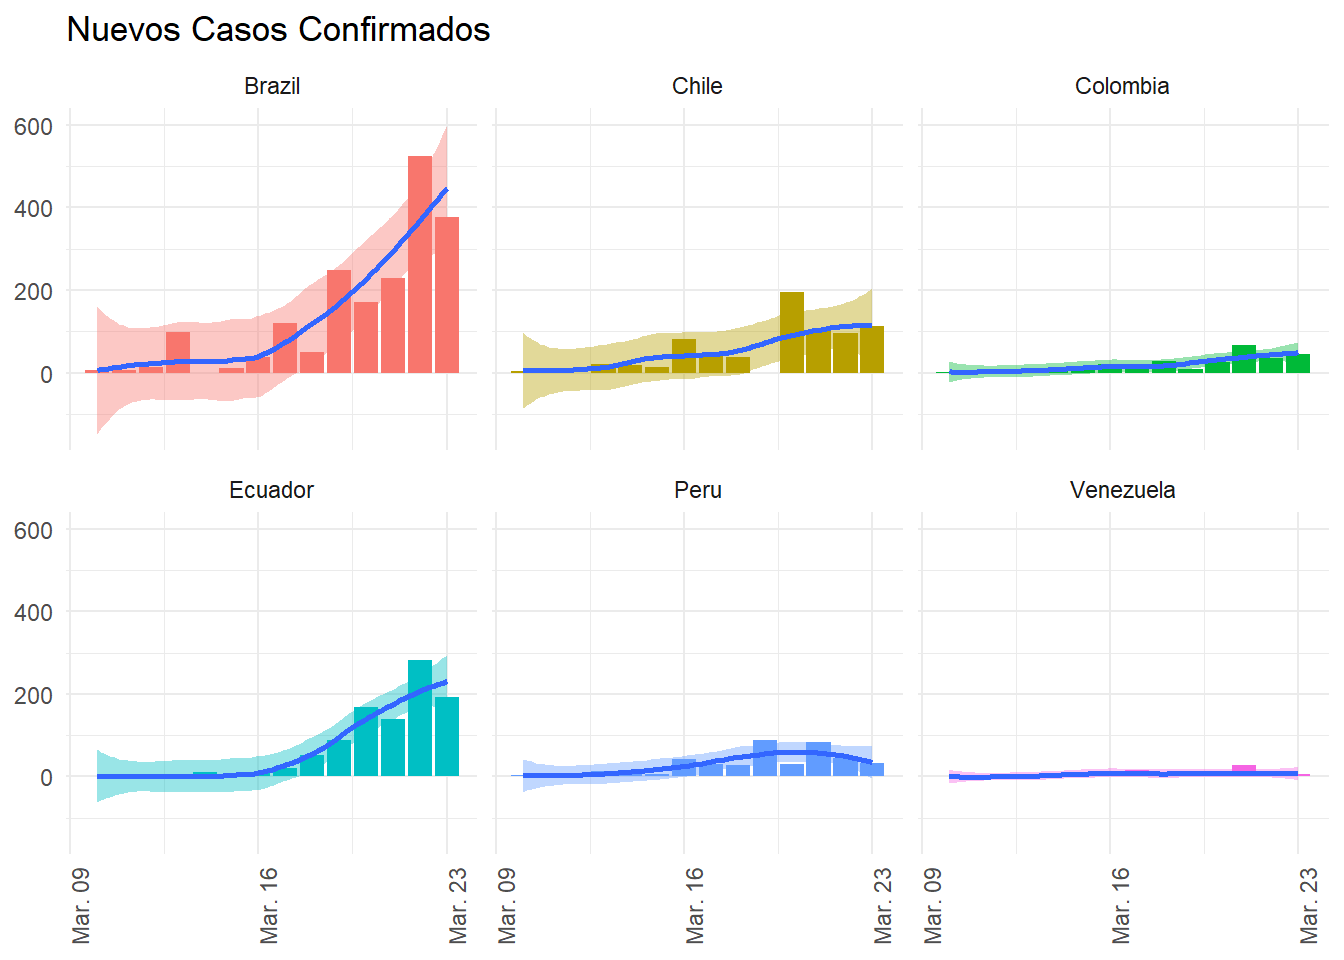
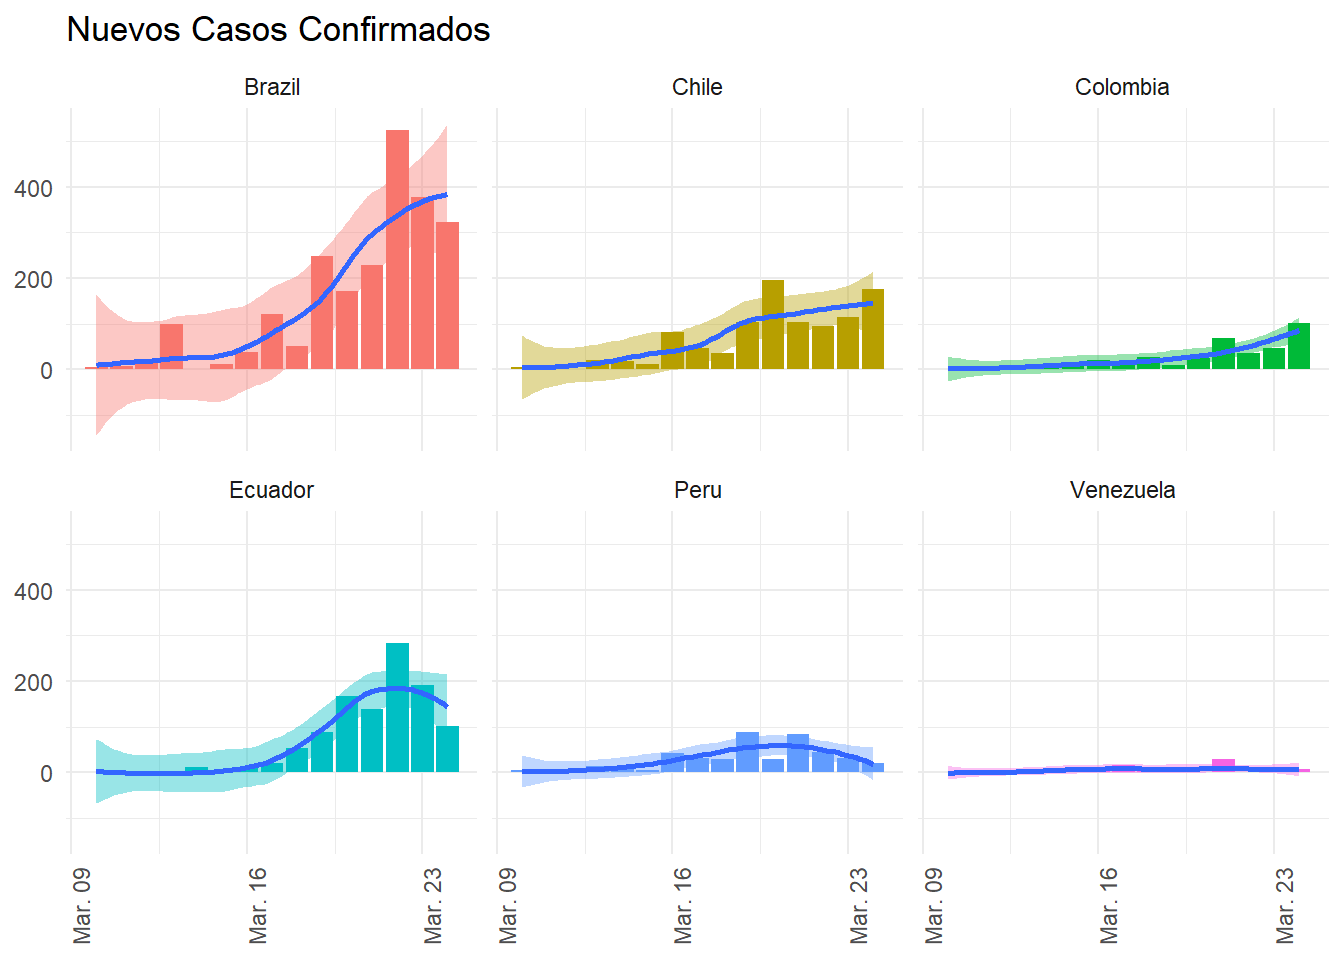
1ra Etapa 1.2

diff --git a/index.html b/index.html
@@ -12,7 +12,7 @@
 
 <meta name="author" content="Jorge David Morales" />
 
-<meta name="date" content="2020-03-24" />
+<meta name="date" content="2020-03-25" />
 
 <title>JD Website</title>
 
@@ -295,7 +295,7 @@ $(document).ready(function () {
 
 <h1 class="title toc-ignore">JD Website</h1>
 <h4 class="author">Jorge David Morales</h4>
-<h4 class="date">2020-03-24</h4>
+<h4 class="date">2020-03-25</h4>
 
 </div>
 
@@ -303,11 +303,9 @@ $(document).ready(function () {
 <p>Análisis estadístico con R</p>
 <div id="covid-19" class="section level1">
 <h1>COVID-19</h1>
-<pre class="r"><code># Internet Data
-covid19 &lt;- read.csv(&quot;http://query.data.world/s/cdc5dussbvmp52xnluz6wvyntjn6am&quot;,
-                    header = T, stringsAsFactors = F)</code></pre>
+<p>Información tomada de: <a href="http://query.data.world/s/cdc5dussbvmp52xnluz6wvyntjn6am" class="uri">http://query.data.world/s/cdc5dussbvmp52xnluz6wvyntjn6am</a></p>
 <pre><code>##   Last_Report
-## 1  2020-03-23</code></pre>
+## 1  2020-03-24</code></pre>
 <table class="table table-striped table-hover table-condensed" style="margin-left: auto; margin-right: auto;">
 <thead>
 <tr>
@@ -331,98 +329,98 @@ New_Cases
 <tbody>
 <tr>
 <td style="text-align:left;">
-2020-03-23
+2020-03-24
 </td>
 <td style="text-align:left;">
 Brazil
 </td>
 <td style="text-align:right;">
-1924
+2247
 </td>
 <td style="text-align:right;">
-34
+46
 </td>
 <td style="text-align:right;">
-378
+323
 </td>
 </tr>
 <tr>
 <td style="text-align:left;">
-2020-03-23
+2020-03-24
 </td>
 <td style="text-align:left;">
 Ecuador
 </td>
 <td style="text-align:right;">
-981
+1082
 </td>
 <td style="text-align:right;">
-18
+27
 </td>
 <td style="text-align:right;">
-192
+101
 </td>
 </tr>
 <tr>
 <td style="text-align:left;">
-2020-03-23
+2020-03-24
 </td>
 <td style="text-align:left;">
 Chile
 </td>
 <td style="text-align:right;">
-746
+922
 </td>
 <td style="text-align:right;">
 2
 </td>
 <td style="text-align:right;">
-114
+176
 </td>
 </tr>
 <tr>
 <td style="text-align:left;">
-2020-03-23
+2020-03-24
 </td>
 <td style="text-align:left;">
 Peru
 </td>
 <td style="text-align:right;">
-395
+416
 </td>
 <td style="text-align:right;">
-5
+7
 </td>
 <td style="text-align:right;">
-32
+21
 </td>
 </tr>
 <tr>
 <td style="text-align:left;">
-2020-03-23
+2020-03-24
 </td>
 <td style="text-align:left;">
 Colombia
 </td>
 <td style="text-align:right;">
-277
+378
 </td>
 <td style="text-align:right;">
 3
 </td>
 <td style="text-align:right;">
-46
+101
 </td>
 </tr>
 <tr>
 <td style="text-align:left;">
-2020-03-23
+2020-03-24
 </td>
 <td style="text-align:left;">
 Venezuela
 </td>
 <td style="text-align:right;">
-77
+84
 </td>
 <td style="text-align:right;">
 0
